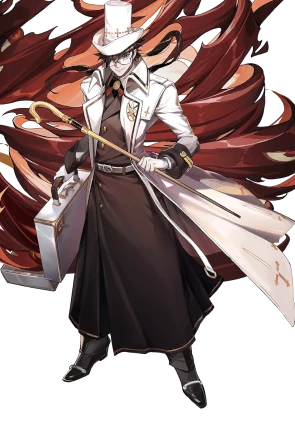
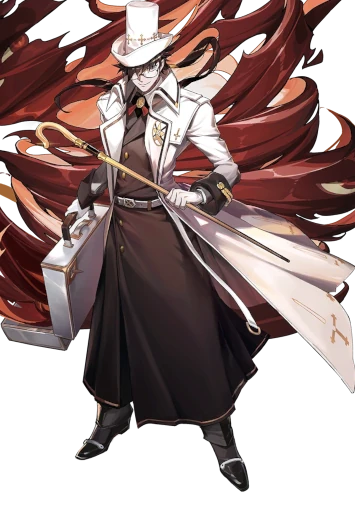
v:782

diff --git a/monsterslayer.html b/monsterslayer.html
@@ -36,7 +36,7 @@
 
     <main>
         <h1>BILL</h1>
-        <img src="imagen/Momonga.jpg" alt="Bill" class="img-persona">
+        <img src="imagen/bill.png" alt="Bill" class="img-persona">
        
         
         <h2>Historia</h2>
@@ -66,11 +66,11 @@
                 <li>Carisma: 0</li>
             </ul>
             <ul>
-                <li><h3>Habilidades</h3></li>
-                <li> </li>
-                <li> </li>
-                <li> </li>
-                <li> </li>
+                <li><h3>Habilidades</h3></li> <br>
+                <li>???? </li>
+                <li>???? </li>
+                <li>???? </li>
+                <li>???? </li>
             </ul>
         </section>
         

diff --git a/fantasia.html b/fantasia.html
@@ -43,7 +43,7 @@
     <main>
         <h1 class="titulo">Sork</h1>
 
-        <img src="imagen/Momonga.jpg" alt="Bill" class="img-persona">
+        <img src="imagen/Faust.webp" alt="Bill" class="img-persona">
 
         <h2 class="titulo">Historia</h2>
 

diff --git a/estilos/style.css b/estilos/style.css
@@ -125,6 +125,7 @@ h4{
     display: block;
     max-width: 50%;
     min-height: 50%;
+    border-radius: 10px;
 }    
 
 
